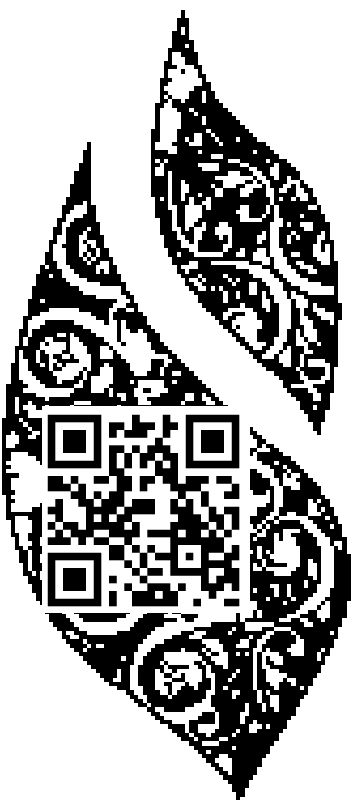
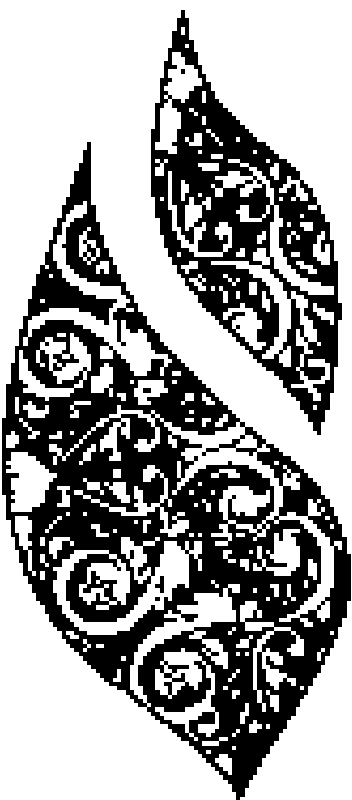
Use a border, slightly smaller thumbnail

Changed region(s): [[0.0938, 0.5, 0.7188, 0.7812]]

diff --git a/util/composite.py b/util/composite.py
@@ -8,11 +8,12 @@ offset = (41, 406)
 n = int( sys.argv[1])
 for i in xrange(n):
     qr = qrcode.QRCode(
-        border=0,
+        border=1,
     )
+    print "Generating image {i}...".format(i=i)
     qr.add_data('http://se.cretfi.re/gear/{i}'.format(i=i))
     qr_img = qr.make_image()
-    qr_img.thumbnail((210,210))
+    qr_img.thumbnail((196,196))
     sticker.paste(qr_img, offset)
 
     sticker.save("output/{i:03d}.png".format(i=i))
